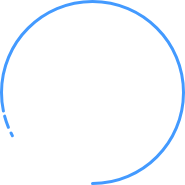
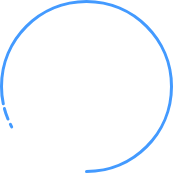
add imagem 2

diff --git a/public/css/app.css b/public/css/app.css
@@ -10972,24 +10972,33 @@ body .row {
   margin-left: 100px;
 }
 
-.instrucoes {
+.imginstrucoes {
   background-image: linear-gradient(120deg, #ffffff 0%, #ebedee 100%);
   -webkit-clip-path: polygon(0 9%, 100% 0, 100% 90%, 0% 100%);
   clip-path: polygon(0 9%, 100% 0, 100% 90%, 0% 100%);
-  display: -webkit-box;
-  display: -ms-flexbox;
-  display: flex;
-  -webkit-box-pack: center;
-      -ms-flex-pack: center;
-          justify-content: center;
   width: auto;
   height: 523px;
 }
 
-p {
+.imginstrucoes p {
+  -webkit-box-pack: center;
+      -ms-flex-pack: center;
+          justify-content: center;
   color: #4D4F5C;
   font-size: 28px;
   font-weight: bold;
-  margin-top: 50px;
+  margin-top: 40px;
+}
+
+.circulos {
+  width: 100%;
+  display: -webkit-box;
+  display: -ms-flexbox;
+  display: flex;
+  -ms-flex-pack: distribute;
+      justify-content: space-around;
+  -webkit-box-align: start;
+      -ms-flex-align: start;
+          align-items: flex-start;
 }
 

diff --git a/resources/assets/sass/site/_welcomesite.scss b/resources/assets/sass/site/_welcomesite.scss
@@ -17,22 +17,29 @@
   margin-left: 100px;
 }
 
-.instrucoes {
-  //background-image: linear-gradient(270deg, #FFFFFF 0%, #7A7A7A 100%);
+.imginstrucoes {
   background-image: linear-gradient(120deg, #ffffff 0%, #ebedee 100%);
   -webkit-clip-path: polygon(0 9%, 100% 0, 100% 90%, 0% 100%);
   clip-path: polygon(0 9%, 100% 0, 100% 90%, 0% 100%);
-
-  display: flex;
-  justify-content: center;
   width: auto;
   height: 523px;
 
+  p {
+    justify-content: center;
+    color: #4D4F5C;
+    font-size: 28px;
+    font-weight: bold;
+    margin-top: 40px;
+  }
 }
 
-p {
-  color: #4D4F5C;
-  font-size: 28px;
-  font-weight: bold;
-  margin-top: 50px;
+
+
+.circulos {
+  width: 100%;
+  display: flex;
+  justify-content: space-around;
+  align-items: flex-start;
 }
+
+

diff --git a/resources/views/welcomesite.blade.php b/resources/views/welcomesite.blade.php
@@ -5,16 +5,24 @@
             Ajude as <br/>instituições <br/>de caridade <br/>em Pelotas
         </div>
 
-        <div class="">
-        <img class="imagemwelcome" src="{{ asset('imagens/imagem_welcome2.png') }}"
-                   alt="Imagem Menino feliz">
+        <div>
+            <img class="imagemwelcome" src="{{ asset('imagens/imagem_welcome2.png') }}"
+                 alt="Imagem Menino feliz">
         </div>
     </div>
-    <div class="row instrucoes">
-        <p class="align-middle">Como funciona?</p>
+
+    <div class="row imginstrucoes">
+        <p class="row col-12 ">Como funciona?</p>
+        <div class="row circulos">
+            <img class="imagemcirculo" src="{{ asset('imagens/circulo.png') }}"
+                 alt="circulos">
+            <img class="imagemcirculo" src="{{ asset('imagens/circulo.png') }}"
+                 alt="circulos">
+            <img class="imagemcirculo" src="{{ asset('imagens/circulo.png') }}"
+                 alt="circulos">
+            <img class="imagemcirculo" src="{{ asset('imagens/circulo.png') }}"
+                 alt="circulos">
+        </div>
     </div>
-    <div class="row instrucoes2">
-        <img class="imagemwelcome" src="{{ asset('imagens/imagem_welcome2.png') }}"
-             alt="Imagem Menino feliz">
-    </div>
+
 @endsection
